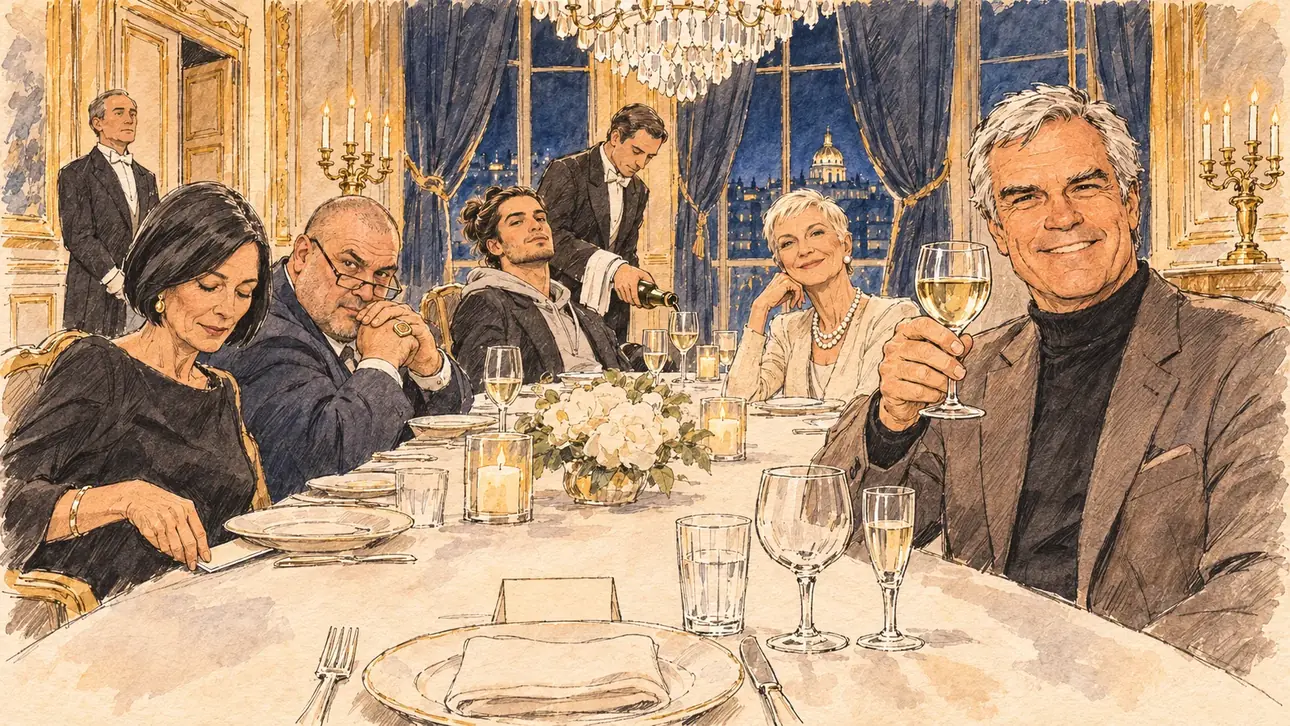
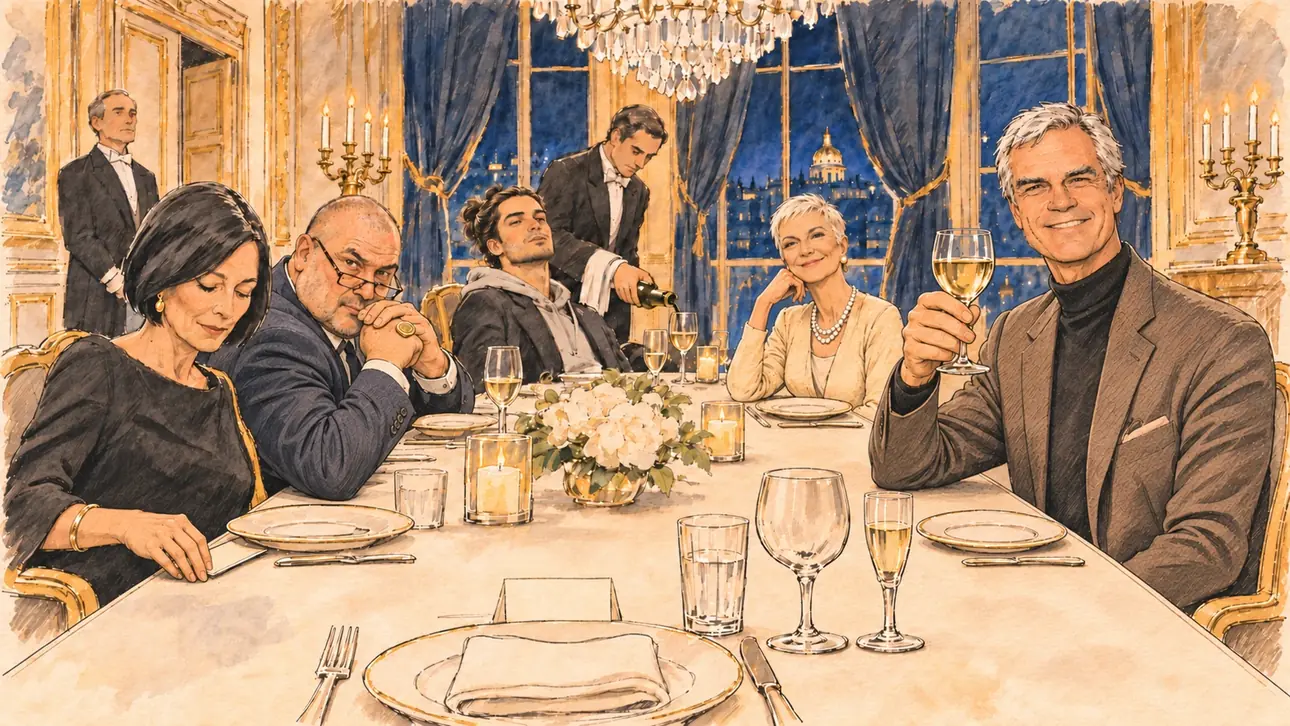
feat(illustrations): donorsDinner, la version retravaillée par le PO
L'essai 2, retravaillé par le PO à partir du premier, remplace l'image validée d'abord.
Export en 1290 × 726, WebP qualité 75.

Claude-Session: https://claude.ai/code/session_01Je1N52nuba2CoxjZbR3VLU

diff --git a/prompts/support/donorsDinner.md b/prompts/support/donorsDinner.md
@@ -1,6 +1,6 @@
 # `donorsDinner` · Un dîner de donateurs
 
-**Régénérée et validée par le PO le 04/11/2026**, à l'essai 1 de la régénération, dans le trait de `primeTime` (la première version avait été validée le 31/10/2026, au premier essai). Elle sert telle quelle en clair et en sombre.
+**Régénérée et validée par le PO le 04/11/2026**, à l'essai 2 de la régénération, une version retravaillée par le PO, dans le trait de `primeTime` (la première version avait été validée le 31/10/2026, au premier essai). Elle sert telle quelle en clair et en sombre.
 
 ![Un dîner de donateurs](../../illustrations/support/donorsDinner.webp)
 
@@ -12,7 +12,7 @@
 | Date | 2026-11-04 (première version : 2026-10-31) |
 | Outil | ChatGPT Images (première version : ChatGPT avec le modèle GPT Sol 6.1 en effort « light », et ChatGPT Images 2.5) |
 | Conversation | À remplir (le lien ne s'ouvre qu'avec le compte qui l'a créée) |
-| Format rendu | 1672 × 941 (16:9) : export en 1290 × 726 px, WebP de qualité 75, 206 Ko, sans recadrage |
+| Format rendu | 1672 × 941 (16:9) : export en 1290 × 726 px, WebP de qualité 75, 147 Ko, sans recadrage |
 | Fichier d'origine | Image de ChatGPT, chez le PO. L'export du dépôt a été fait depuis la copie partagée dans la conversation avec Claude |
 | Première édition | `kit-france-2611-0001` |
 
@@ -118,11 +118,12 @@ Format: if 16:9 is not available, make 1536 × 1024 and keep the top 80 px and t
 
 ### Essais de la régénération
 
-- **Essai 1** (04/11/2026), avec `primeTime.webp` comme référence et le prompt ci-dessus : **validé par le PO**.
+- **Essai 1** (04/11/2026), avec `primeTime.webp` comme référence et le prompt ci-dessus : validé d'abord, puis remplacé par l'essai 2.
+- **Essai 2** (04/11/2026), retravaillé par le PO à partir de l'essai 1 : la même scène, l'hôte et les invités un peu redessinés. **Validé par le PO**.
 
 ### Relecture de la régénération
 
-Faite et validée par le PO le 04/11/2026, sur l'essai 1.
+Faite et validée par le PO le 04/11/2026, sur l'essai 2.
 
 - [x] Aucun texte lisible : le chèque glissé sur la nappe et le marque-place sont vierges, rien sur la bouteille.
 - [x] Aucun sosie d'une personne réelle autre que la ressemblance voulue de l'hôte, d'après un portrait dessiné fait d'après une photo de famille du PO, avec l'accord de la famille (31/10/2026) ; ni la photo ni le portrait ne sont dans ce dépôt.
